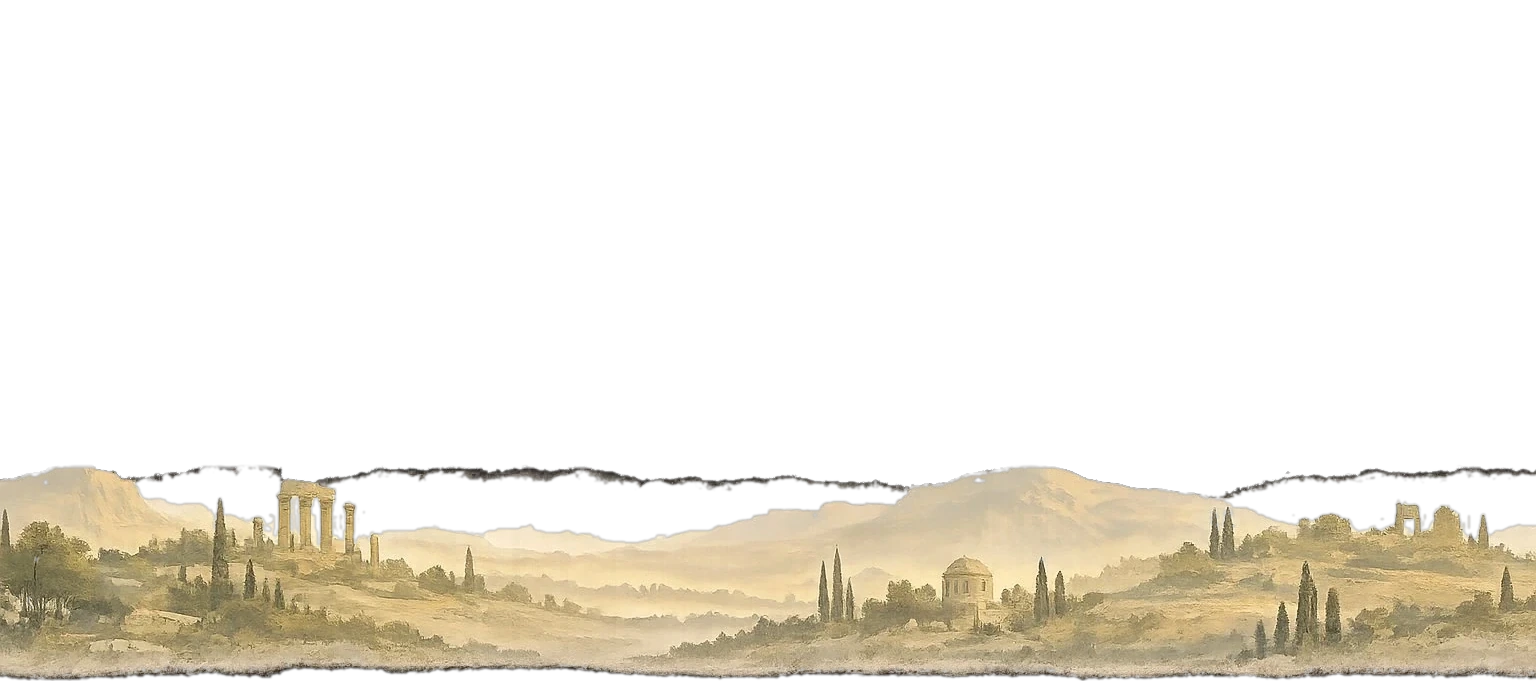
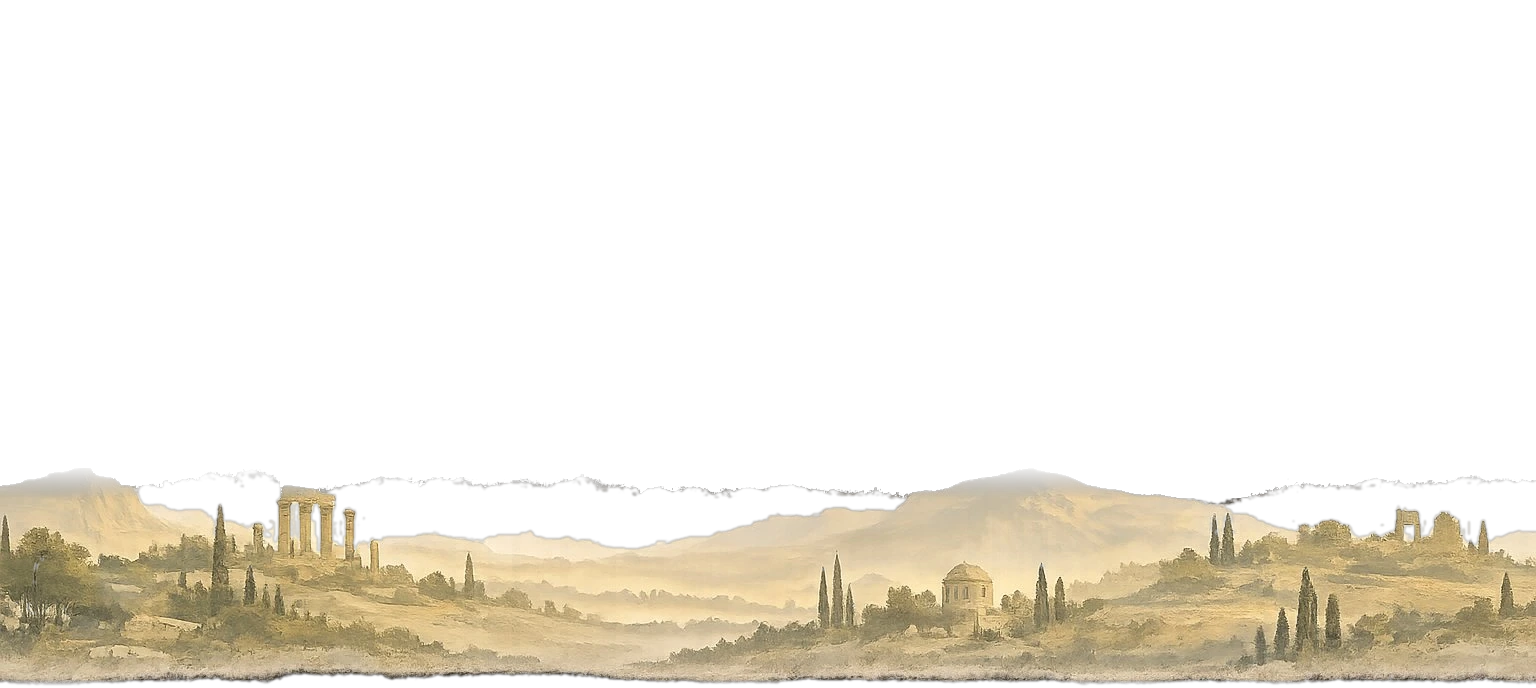
patching 3

diff --git a/src/lib/data.js b/src/lib/data.js
@@ -168,41 +168,58 @@ export const MAX_BR = BRUSH_UPS.length - 1;
 export const SHOVEL_MAX_DUR = [null, 40, 60, 90, 130, 180, 250, 350, 500, 700];
 
 /* ─── TAROT ───────────────────────────────────────────────────────────────
-   Nine cards across three rarity tiers. Maximum 2 equipped. Each effect is
-   *visible* during normal play (numerical badge, conditional UI, post-find moment). */
+   Thirteen cards — one for each piece of art in /public/tarot/. Three
+   rarity tiers; equip up to two at once. Every effect listed below maps to
+   a field consumed by `tarotBuffs()` in lib/coin.js (xpMul, marksMul,
+   pinSlots, revealRarity, allowSkip, firstStrikeBonus, forgeRefund,
+   forgeDiscount, shinyBonus, rerollRarity, rarityFloor, guaranteedEvery
+   /Floor). If you change an effect here, that's the only place to edit
+   — the buff reducer auto-picks it up. */
 export const TAROT_CARDS = [
   // ── COMMON TIER ──────────────────────────────────────────────────
-  { id:"magician", title:"The Magician", roman:"I",  rarity:"common",  price:800,  minLvl:5,
-    xpMul:0.25,
-    desc:"+25% XP from every find." },
-  { id:"lovers",   title:"The Lovers",   roman:"VI", rarity:"common",  price:1000, minLvl:6,
+  { id:"magician",        title:"The Magician",       roman:"I",   rarity:"common", price:800,  minLvl:5,
+    xpMul:0.20,
+    desc:"+20% XP from every find." },
+  { id:"high_priestess",  title:"The High Priestess", roman:"II",  rarity:"common", price:1000, minLvl:6,
+    revealRarity:true,
+    desc:"Every coin glint reveals the rarity before you commit." },
+  { id:"empress",         title:"The Empress",        roman:"III", rarity:"common", price:1100, minLvl:7,
+    marksMul:0.20,
+    desc:"+20% marks when selling coins." },
+  { id:"emperor",         title:"The Emperor",        roman:"IV",  rarity:"common", price:1200, minLvl:8,
     pinSlots:1,
     desc:"+1 display cabinet slot." },
-  { id:"empress",  title:"The Empress",  roman:"III",rarity:"common",  price:1200, minLvl:8,
-    marksMul:0.15,
-    desc:"+15% marks from selling coins." },
 
   // ── RARE TIER ────────────────────────────────────────────────────
-  { id:"hermit",           title:"The Hermit",       roman:"IX", rarity:"rare", price:2200, minLvl:12,
-    revealRarity:true, allowSkip:true,
-    desc:"Every coin window glints — no silent finds. The lantern lights the path." },
-  { id:"wheel_of_fortune", title:"Wheel of Fortune", roman:"X",  rarity:"rare", price:2800, minLvl:15,
-    guaranteedEvery:7, guaranteedFloor:2,
-    desc:"Every 7th find is guaranteed Rare or higher. Counter visible on hunt screen." },
-  { id:"chariot",          title:"The Chariot",      roman:"VII",rarity:"rare", price:2400, minLvl:14,
-    firstStrikeBonus:0.25,
-    desc:"+25% chance the coin is in your first dig cell (instant find, max XP)." },
+  { id:"hierophant",      title:"The Hierophant",     roman:"V",   rarity:"rare",   price:2000, minLvl:11,
+    forgeRefund:0.25,
+    desc:"25% chance to recover the scrap when forging artefacts." },
+  { id:"lovers",          title:"The Lovers",         roman:"VI",  rarity:"rare",   price:2200, minLvl:12,
+    marksMul:0.40,
+    desc:"+40% marks when selling coins. (Stacks with Empress.)" },
+  { id:"chariot",         title:"The Chariot",        roman:"VII", rarity:"rare",   price:2400, minLvl:14,
+    firstStrikeBonus:0.30,
+    desc:"+30% chance the coin sits under your very first dig cell." },
+  { id:"strength",        title:"Strength",           roman:"VIII",rarity:"rare",   price:2600, minLvl:15,
+    shinyBonus:0.05,
+    desc:"+5% shiny chance on every brush, on top of your brush level." },
+  { id:"hermit",          title:"The Hermit",         roman:"IX",  rarity:"rare",   price:2800, minLvl:16,
+    allowSkip:true,
+    desc:"Skip a coin you don't want — no durability lost." },
 
   // ── LEGENDARY TIER ───────────────────────────────────────────────
-  { id:"tower",      title:"The Tower",      roman:"XVI",rarity:"legendary", price:5000, minLvl:25,
-    forgeDiscount:0.40,
-    desc:"All artefact forging costs reduced by 40%." },
-  { id:"hanged_man", title:"The Hanged Man", roman:"XII",rarity:"legendary", price:4500, minLvl:22,
+  { id:"wheel_of_fortune",title:"Wheel of Fortune",   roman:"X",   rarity:"legendary", price:5000, minLvl:22,
+    guaranteedEvery:7, guaranteedFloor:2,
+    desc:"Every 7th find is guaranteed Rare or higher. Counter visible on hunt screen." },
+  { id:"justice",         title:"Justice",            roman:"XI",  rarity:"legendary", price:4800, minLvl:24,
     rerollRarity:1,
     desc:"Once per day, reroll the rarity of a coin you just found." },
-  { id:"sun",        title:"The Sun",        roman:"XIX",rarity:"legendary", price:5500, minLvl:30,
-    rarityFloor:1, glyph:"☀",
+  { id:"hanged_man",      title:"The Hanged Man",     roman:"XII", rarity:"legendary", price:5200, minLvl:26,
+    rarityFloor:1,
     desc:"All finds are guaranteed at least Uncommon rarity." },
+  { id:"tower",           title:"The Tower",          roman:"XVI", rarity:"legendary", price:5500, minLvl:28,
+    forgeDiscount:0.40,
+    desc:"All artefact forging costs reduced by 40%." },
 ];
 export const TAROT_BY_ID = Object.fromEntries(TAROT_CARDS.map(c => [c.id, c]));
 // Two equipped at a time — combinations matter, but no card is "always-on".

diff --git a/src/screens/HuntSideScroller.jsx b/src/screens/HuntSideScroller.jsx
@@ -395,12 +395,25 @@ export default function Hunt() {
           className="absolute pointer-events-none"
           style={{
             left: charXPx,
-            bottom: "22%",
+            // Feet at 14% from viewport bottom puts them on the near layer's
+            // rocky content. Previously 22% left the character floating well
+            // above the ground — the walk cells have 0px bottom padding so
+            // the div's bottom IS where the feet are.
+            bottom: "14%",
             transform: "translate(-50%, 0)",
           }}>
           {phase === "hunt" && <SpriteFrame anim="run"/>}
-          {phase === "dig"  && <SpriteFrame anim="dig" onComplete={handleDigAnimDone}/>}
-          {phase === "found" && <SpriteFrame anim="idle"/>}
+          {/* Keep the dig sprite mounted through both phases so it holds on
+              its final frame after the swing completes — the previous "idle"
+              animation during 'found' showed the wrong pose and read as a
+              glitch. dig is loop:false so SpriteFrame freezes on the last
+              cell once onComplete fires. */}
+          {(phase === "dig" || phase === "found") && (
+            <SpriteFrame
+              anim="dig"
+              onComplete={phase === "dig" ? handleDigAnimDone : undefined}
+            />
+          )}
         </div>
 
         {/* ── Dig hole + dirt mound (during dig and brief after) ── */}